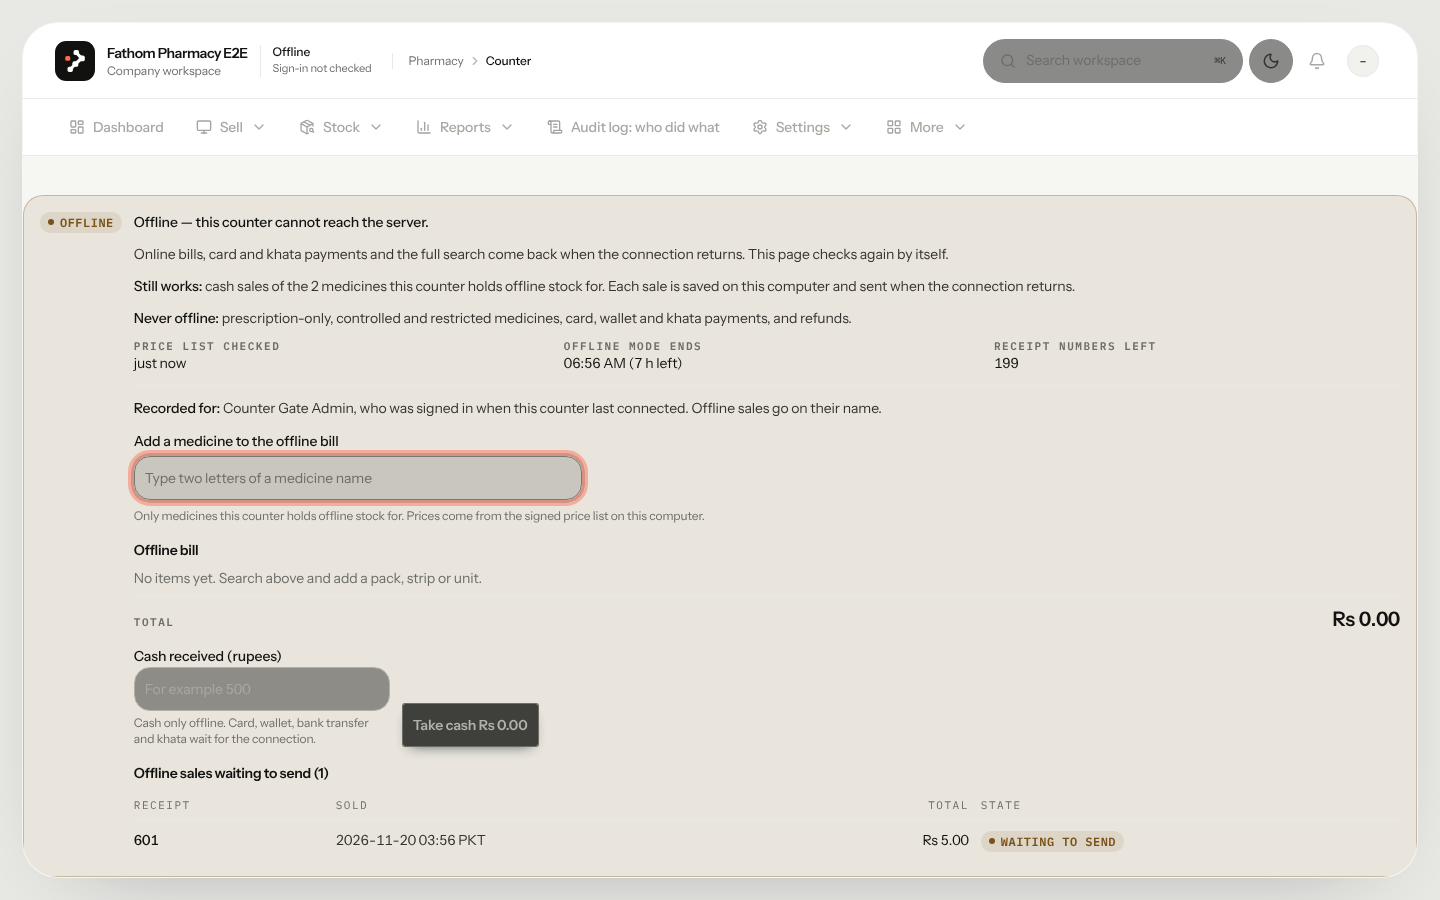
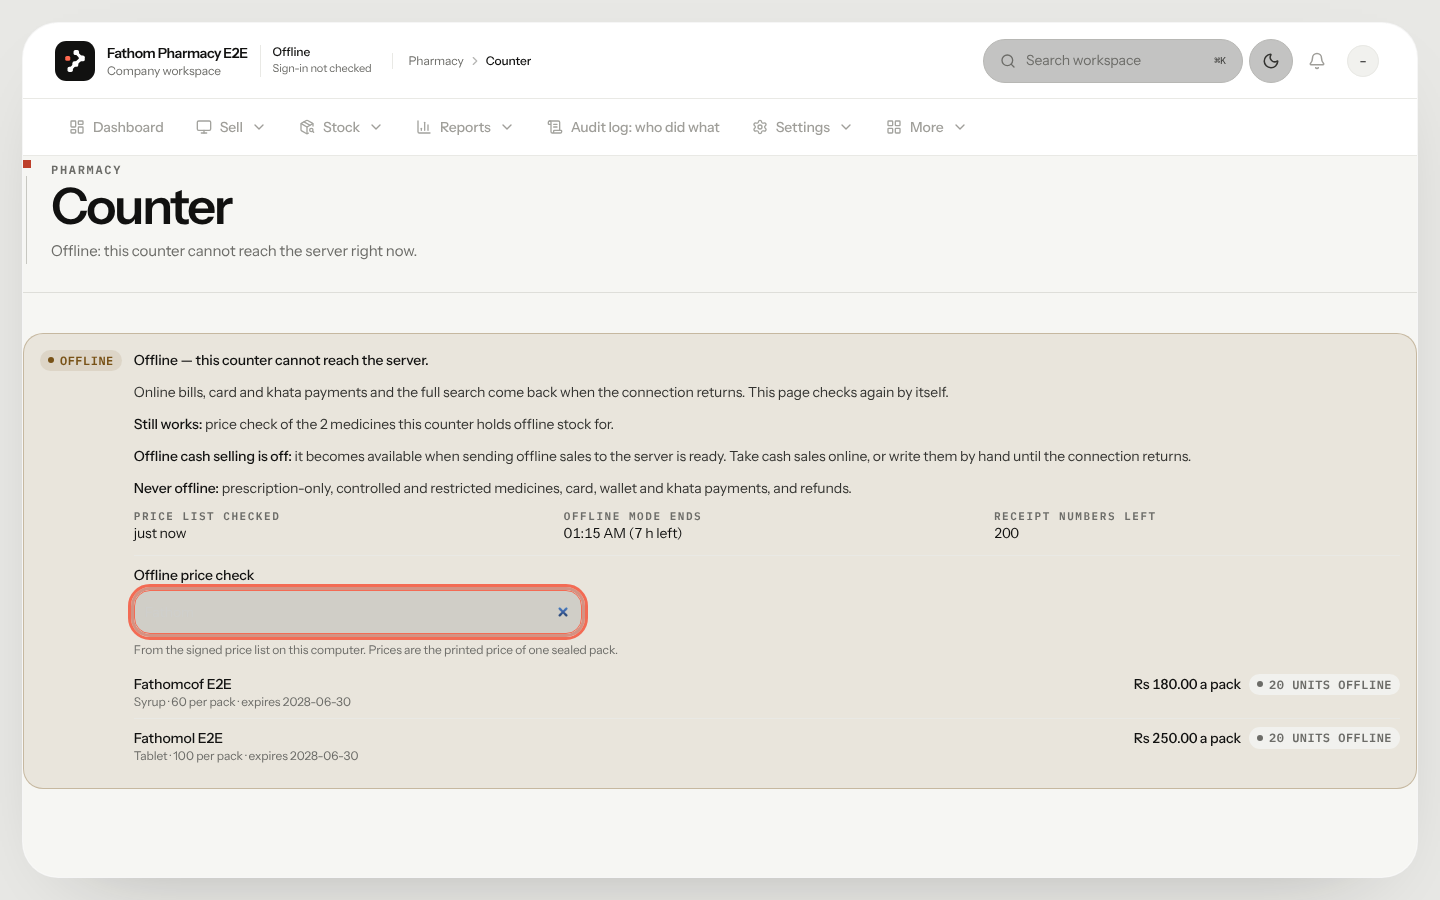
DEV-957A: [Pharmacy][P1] Offline selling at the counter (in phases)
Pharmacy counter offline selling, phase 2: Local sale queue with device-signed cash sales and leased receipt numbers

- Name the Sales to reconcile export by the receipt numbers it holds, not a hand-rolled UTC
  date (the business-day guard).
- Browser spec: with offline cash selling off, a prepared counter checks prices offline and
  takes no cash; the owner's switch is off and disabled; the kept sales list is shown,
  exported and refused for an unknown counter. Visual QA screenshots refreshed.

diff --git a/tests/e2e/pharmacy-counter-offline-sale.spec.ts b/tests/e2e/pharmacy-counter-offline-sale.spec.ts
@@ -275,12 +275,12 @@ test('with offline cash selling off, a prepared counter checks prices offline an
   });
   await expect(reconcile).toContainText('Receipt 9001');
   await expect(reconcile).toContainText('Counter Old till');
-  await expect(reconcile.getByText('Not booked')).toBeVisible();
+  await expect(reconcile.getByText('Not booked').first()).toBeVisible();
   const [download] = await Promise.all([
     page.waitForEvent('download'),
     reconcile.getByRole('button', { name: 'Export (CSV)' }).click(),
   ]);
-  expect(download.suggestedFilename()).toMatch(/^offline-sales-to-reconcile-\d{4}-\d{2}-\d{2}\.csv$/);
+  expect(download.suggestedFilename()).toBe('offline-sales-to-reconcile-receipts-9001-9001.csv');
   for (const [width, height] of [
     [375, 812],
     [1440, 900],

diff --git a/src/components/pharmacy/counter/counter-sales-to-reconcile.tsx b/src/components/pharmacy/counter/counter-sales-to-reconcile.tsx
@@ -30,7 +30,10 @@ function download(sales: readonly ReconcileSale[]) {
   const url = URL.createObjectURL(blob);
   const link = document.createElement('a');
   link.href = url;
-  link.download = `offline-sales-to-reconcile-${new Date().toISOString().slice(0, 10)}.csv`;
+  // Named by the receipt numbers it holds; the export carries no day of its own.
+  const numbers = sales.map((sale) => sale.receiptNumber).filter((n): n is number => n !== null);
+  const range = numbers.length ? `-receipts-${Math.min(...numbers)}-${Math.max(...numbers)}` : '';
+  link.download = `offline-sales-to-reconcile${range}.csv`;
   document.body.appendChild(link);
   link.click();
   link.remove();
